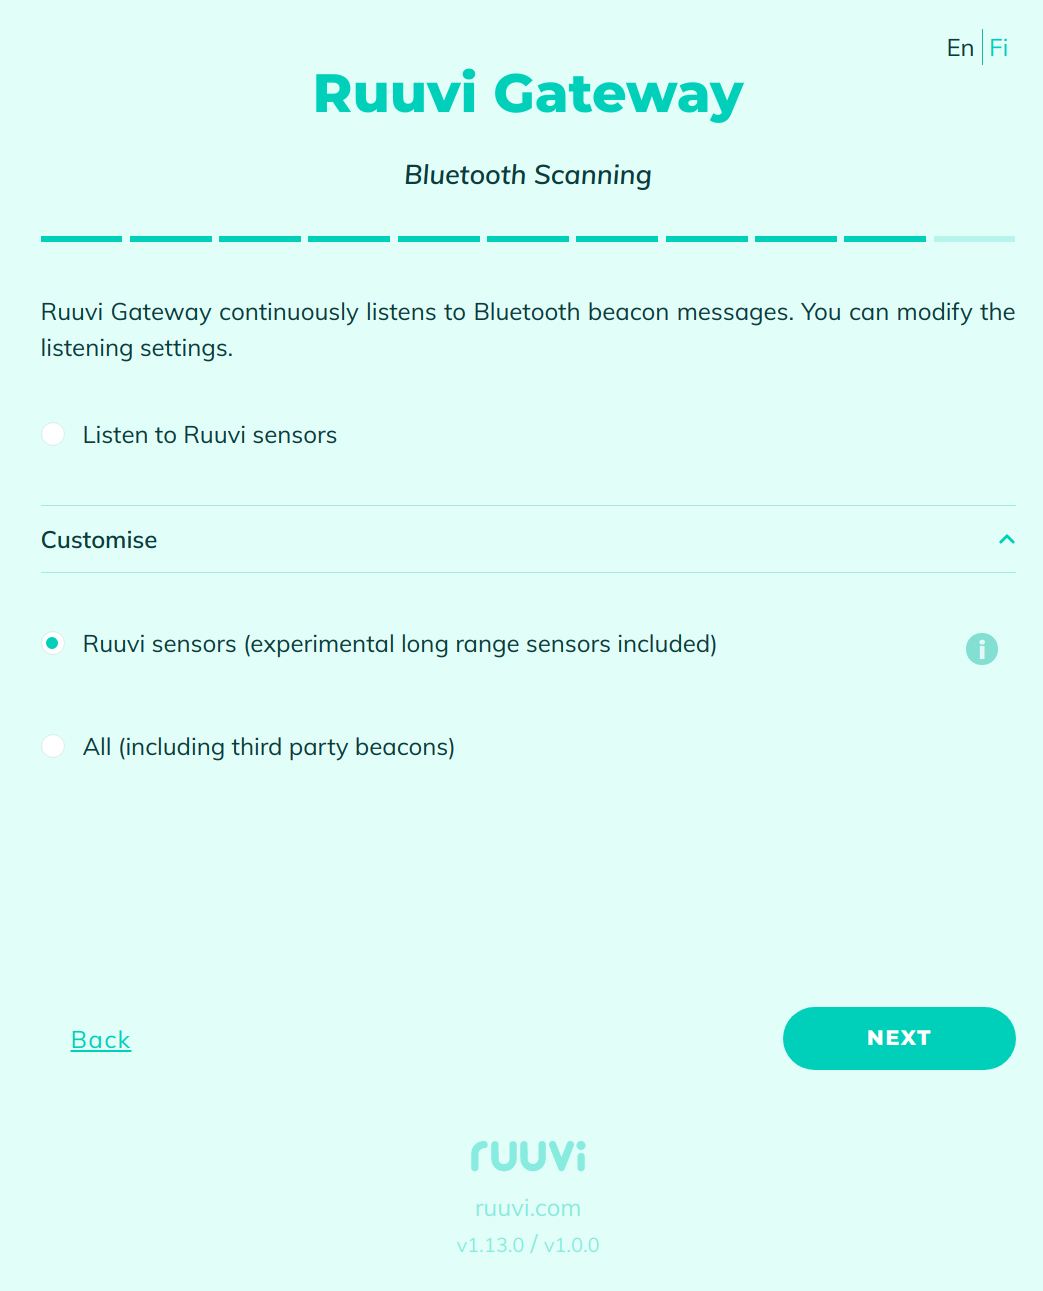
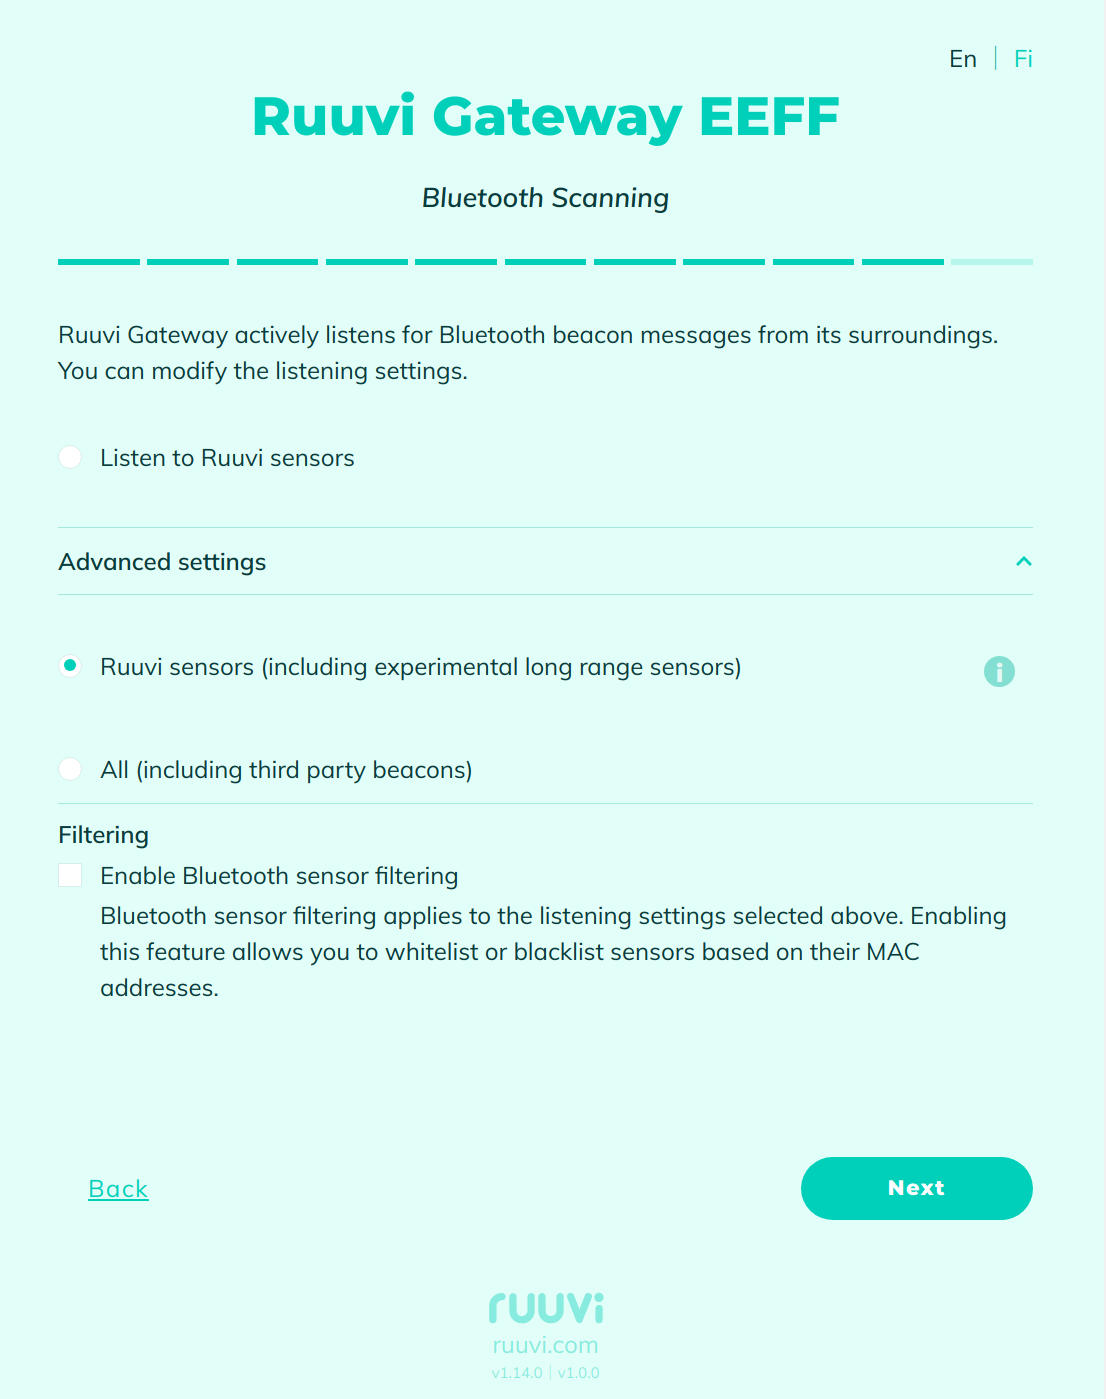
#755: Update Ruuvi Gateway configuration guide for advanced users (#805)
* #755: Update Ruuvi Gateway configuration guide for advanced users

* #755: Fix typo

* #755: Update documentation

* #755: Update README.md to restart build on Jenkins

* Revert "#755: Update README.md to restart build on Jenkins"

This reverts commit 030c857f7a35ba3a384588537cf939ee391c318e.

* #755: Modify README.md to restart build on Jenkins

* Revert "#755: Modify README.md to restart build on Jenkins"

This reverts commit 50faae8772d2d5c806b63c5729ca94ab13da1bc3.

diff --git a/docs/gateway_configuration/gateway_configuration.md b/docs/gateway_configuration/gateway_configuration.md
@@ -9,7 +9,7 @@ Firmware version information can be found at the bottom of each page:
 ![start_page](images/start_page.png)
 
 There are two version numbers:
-* Ruuvi Gateway firmware version (v1.13.0). [GitHub repo](https://github.com/ruuvi/ruuvi.gateway_esp.c)
+* Ruuvi Gateway firmware version (v1.14.0). [GitHub repo](https://github.com/ruuvi/ruuvi.gateway_esp.c)
 * Ruuvi Gateway nRF52 co-processor firmware version (v1.0.0) [GitHub repo](https://github.com/ruuvi/ruuvi.gateway_nrf.c)
 
 
@@ -177,6 +177,39 @@ Example of corresponding minimal gw_cfg.json:
 }
 ```
 
+It also supports client authentication via SSL by enabling the upload of a client certificate and 
+its associated private key, ensuring secure and verified client-server communication:
+
+![automatic_configuration_download_client_ssl_cert](images/automatic_configuration_download_client_ssl_cert.png)
+
+Example of corresponding minimal gw_cfg.json:
+```json
+{
+  "remote_cfg_use": true, 
+  "remote_cfg_url": "http://192.168.1.101:7000/", 
+  "remote_cfg_refresh_interval_minutes": 10,
+  "remote_cfg_auth_type": "none",
+  "remote_cfg_use_ssl_client_cert": true
+}
+```
+
+You can use a server SSL Certificate if you want to be independent of 
+public Certificate Authorities (CAs) or if you have deployed a self-signed certificate 
+on the HTTPS server, giving you greater control and customization over your security infrastructure:
+
+![automatic_configuration_download_server_ssl_cert](images/automatic_configuration_download_server_ssl_cert.png)
+
+Example of corresponding minimal gw_cfg.json:
+```json
+{
+  "remote_cfg_use": true, 
+  "remote_cfg_url": "http://192.168.1.101:7000/", 
+  "remote_cfg_refresh_interval_minutes": 10,
+  "remote_cfg_auth_type": "none",
+  "remote_cfg_use_ssl_server_cert": true
+}
+```
+
 ## LAN Access Settings
 
 You can restrict or allow access to your Ruuvi Gateway from the local network.
@@ -244,8 +277,14 @@ Examples:
   
 ## Custom HTTP(S) / MQTT(S) sever
 
-Ruuvi Gateway connects to the Ruuvi Cloud by default. However, you can configure it to use an HTTP
-or MQTT server to route data from your nearby sensors to a custom location instead.
+Ruuvi Gateway connects to the Ruuvi Cloud by default. However, you can configure it to use an 
+HTTP(S) or MQTT server to route data from your nearby sensors to a custom location instead.
+
+Ruuvi Gateway supports client authentication via SSL for HTTPS and MQTTS by enabling the upload 
+of a client certificate and its associated private key.
+
+Also, you can use a server SSL Certificate if you want to be independent of public Certificate 
+Authorities (CAs) or if you have deployed a self-signed certificate on the HTTPS/MQTTS server.
 
 ![cloud_options_advanced_settings](images/cloud_options_advanced_settings.png)
 
@@ -253,8 +292,8 @@ You can enable or disable sending data to Ruuvi Cloud:
 
 ![custom_server_ruuvi_cloud](images/custom_server_ruuvi_cloud.png)
 
-Or configure to send data to your own server via HTTP/HTTPS (sending to both Ruuvi Cloud and your
-own server is not supported yet):
+Or configure to send data to your own server via HTTP/HTTPS (you can configure sending to both 
+Ruuvi Cloud and your own server):
 
 ![custom_server_http](images/custom_server_http.png)
 
@@ -319,3 +358,12 @@ PHY extended payloads.
 
 **Use channel**. Each enabled BLE channel is scanned sequentially for a minimum of 7000 ms per
 channel, for a total of 21000 ms if all 3 channels are enabled. At least one channel must be active.
+
+It is possible to filter out the relayed Bluetooth sensors. 
+You can use whitelist mode if you only want to share data for specific sensors, 
+or blacklist mode if you want to share data from all sensors except the specified list.
+
+![bluetooth_filtering](images/bluetooth_filtering.png)
+
+If you don't see some sensors, try to press on **Refresh list**. If a sensor is offline, 
+you can add it manually by entering its MAC address and pressing on the **Add** button.

diff --git a/README.md b/README.md
@@ -227,7 +227,7 @@ flash for 100ms every second.
 1. Create copy of "gw_cfg_default" folder, modify gw_cfg_default.json as you require.
 2. Execute command to generate binary gw_cfg_def.bin:
 ```shell
-python $IDF_PATH/components/nvs_flash/nvs_partition_generator/nvs_partition_gen.py generate gw_cfg_def_partition.csv gw_cfg_def.bin 0x40000
+python ./scripts/nvs_partition_gen.py generate gw_cfg_def_partition.csv gw_cfg_def.bin 0x40000
 ```
 
 ### Reproducible build
